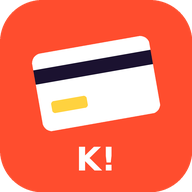
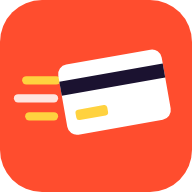
Rename the app to Sulit Swipe
- New name in the header, home-screen name, share text and page title
- New icon and share image (card with swipe lines)
- Saved wallets carry over (storage key unchanged)

Claude-Session: https://claude.ai/code/session_01GAsPrBMvnJ9dm1GLeQ6xy4

diff --git a/index.html b/index.html
@@ -1,7 +1,7 @@
 <!DOCTYPE html>
 <html lang="en"><head>
 <meta charset="utf-8"><meta name="viewport" content="width=device-width,initial-scale=1,viewport-fit=cover">
-<title>Kaskas! — Which card should you swipe?</title>
+<title>Sulit Swipe — Which card should you swipe?</title>
 <meta name="description" content="Find out which of your credit cards earns the most rewards before you pay.">
 <meta name="theme-color" content="#ff4d2e" media="(prefers-color-scheme: light)">
 <meta name="theme-color" content="#16111f" media="(prefers-color-scheme: dark)">
@@ -11,10 +11,11 @@
 <meta name="apple-mobile-web-app-capable" content="yes">
 <meta name="mobile-web-app-capable" content="yes">
 <meta name="apple-mobile-web-app-status-bar-style" content="black-translucent">
-<meta name="apple-mobile-web-app-title" content="Kaskas!">
-<meta property="og:title" content="Kaskas! — Which card should you swipe?">
+<meta name="apple-mobile-web-app-title" content="Sulit Swipe">
+<meta property="og:title" content="Sulit Swipe — Which card should you swipe?">
 <meta property="og:description" content="Find out which of your credit cards earns the most rewards before you pay.">
-<meta property="og:image" content="og.png">
+<meta property="og:image" content="https://chairell.github.io/sulitswipe/og.png">
+<meta property="og:url" content="https://chairell.github.io/sulitswipe/">
 <meta name="twitter:card" content="summary_large_image">
 <style>
 :root{--hot:#ff4d2e;--ink:#1b1230;--sun:#ffd23f;--bg:#f6f3ef;--surface:#fff;--mut:#6b6280;--line:#e9e4ee;--fill:#eeeaf2;
@@ -147,7 +148,7 @@ body.c #toast{bottom:calc(var(--tab-h) + var(--safe-b) + var(--dock-h,210px) + 1
 body:not(.c) .dock{display:none}
 </style></head><body class="c">
 
-<header class="top"><h1 id="title" class="brand">Kaskas!</h1><div class="sub" id="subtitle">Which card should you swipe?</div></header>
+<header class="top"><h1 id="title" class="brand">Sulit Swipe</h1><div class="sub" id="subtitle">Which card should you swipe?</div></header>
 
 <main id="v-compare" class="view active">
   <div id="guide"></div>
@@ -175,13 +176,13 @@ body:not(.c) .dock{display:none}
   </div>
   <div class="sect">App</div>
   <div class="group">
-    <button class="row" style="width:100%;text-align:left" onclick="showGuide(true)"><div class="lbl">Add Kaskas! to your home screen</div><span class="chev">›</span></button>
-    <button class="row" style="width:100%;text-align:left" onclick="shareApp()"><div class="lbl">Share Kaskas! with friends</div><span class="chev">›</span></button>
+    <button class="row" style="width:100%;text-align:left" onclick="showGuide(true)"><div class="lbl">Add Sulit Swipe to your home screen</div><span class="chev">›</span></button>
+    <button class="row" style="width:100%;text-align:left" onclick="shareApp()"><div class="lbl">Share Sulit Swipe with friends</div><span class="chev">›</span></button>
     <button class="row" style="width:100%;text-align:left;color:#e5484d" onclick="resetCards()"><div class="lbl">Clear my cards</div></button>
   </div>
   <div class="sect">About the rates</div>
   <div class="group"><div class="row"><div class="lbl" style="font-size:14px">Rates come from each bank's website and published terms, checked Nov 25, 2026. Promos are pulled from bank websites daily and listed separately. Rates change often, so check the bank's current terms before relying on a result. Each result links to its source.</div></div>
-    <a class="row" href="https://github.com/chairell/kaskas" target="_blank" rel="noopener" style="text-decoration:none;color:inherit"><div class="lbl">Card data on GitHub</div><span class="chev">›</span></a></div>
+    <a class="row" href="https://github.com/chairell/sulitswipe" target="_blank" rel="noopener" style="text-decoration:none;color:inherit"><div class="lbl">Card data on GitHub</div><span class="chev">›</span></a></div>
 </main>
 
 <div class="dock" id="dock"><div class="dock-in">

diff --git a/app.js b/app.js
@@ -1,4 +1,5 @@
 let S;
+// Storage key kept from the app's first name (Kaskas!) so existing wallets carry over.
 try { S = JSON.parse(localStorage.kaskas || "null"); } catch (e) { S = null; }
 S = Object.assign({ owned: [], cat: "Dining", merch: "", amts: [], guide: 0, mileVal: 0.5, prog: "", conds: {}, picks: {} }, S || {});
 S.picks = S.picks || {};
@@ -38,7 +39,7 @@ function setAmt(a) { setAmtBox(a); $("slider").value = toSlider(a); compare(true
 
 
 // ── Navigation ──
-const TITLES = { compare: ["Kaskas!", "Which card should you swipe?"], cards: ["My cards", "Turn on the cards in your wallet"], settings: ["Settings", ""] };
+const TITLES = { compare: ["Sulit Swipe", "Which card should you swipe?"], cards: ["My cards", "Add the cards in your wallet"], settings: ["Settings", ""] };
 let tab = "compare";
 function go(t) {
   if (t == tab) { window.scrollTo({ top: 0, behavior: "smooth" }); return; }
@@ -256,18 +257,18 @@ function doShare(d) {
   if (navigator.share) navigator.share(d).catch(() => {});
   else navigator.clipboard.writeText(`${d.text} ${d.url}`).then(() => toast("Link copied"));
 }
-function shareApp() { doShare({ title: "Kaskas!", text: "Find out which of your cards earns the most on every purchase:", url: baseUrl() }); }
+function shareApp() { doShare({ title: "Sulit Swipe", text: "Find out which of your cards earns the most on every purchase:", url: baseUrl() }); }
 function shareResult() {
   const { r, a } = window._last, w = r[0];
-  doShare({ title: "Kaskas!", text: `${w.c.name} got me ${pct(w.value, a)} back on ${S.cat.toLowerCase()}. Which of your cards wins?`,
+  doShare({ title: "Sulit Swipe", text: `${w.c.name} got me ${pct(w.value, a)} back on ${S.cat.toLowerCase()}. Which of your cards wins?`,
     url: `${baseUrl()}?cat=${encodeURIComponent(S.cat)}&amt=${a}` });
 }
 function showGuide(force) {
   const installed = matchMedia("(display-mode: standalone)").matches || navigator.standalone;
   if (!force && (S.guide || installed)) { $("guide").innerHTML = ""; return; }
-  if (force && installed) return toast("Kaskas! is already on your home screen 🎉");
+  if (force && installed) return toast("Sulit Swipe is already on your home screen 🎉");
   const ios = /iphone|ipad|ipod/i.test(navigator.userAgent);
-  $("guide").innerHTML = `<div class="card"><b>📲 Add Kaskas! to your home screen</b><p class="small">${ios
+  $("guide").innerHTML = `<div class="card"><b>📲 Add Sulit Swipe to your home screen</b><p class="small">${ios
     ? "In Safari, tap the Share button (the square with an arrow), then choose “Add to Home Screen”."
     : "In Chrome, tap the ⋮ menu, then “Add to Home screen” or “Install app”."}</p><button class="btn plain" onclick="dismissGuide()">Got it</button></div>`;
   if (force) go("compare");

diff --git a/sw.js b/sw.js
@@ -1,5 +1,5 @@
 // Offline support: cache the app shell so it works at the counter even with weak signal.
-const CACHE = "kaskas-v15";
+const CACHE = "sulitswipe-v1";
 const FILES = ["./", "index.html", "app.js", "cards.js", "promos.json", "manifest.json", "icon.svg", "icon-192.png", "icon-512.png"];
 self.addEventListener("install", e => e.waitUntil(caches.open(CACHE).then(c => c.addAll(FILES))));
 self.addEventListener("activate", e => e.waitUntil(

diff --git a/cards.js b/cards.js
@@ -1,4 +1,4 @@
-// Kaskas! card data — compiled from bank websites and published terms, checked 2026-11-25.
+// Sulit Swipe card data — compiled from bank websites and published terms, checked 2026-11-25.
 // Rates change often. Every card lists its source; verify before relying on a ranking.
 //
 // Card types

diff --git a/README.md b/README.md
@@ -1,8 +1,10 @@
-# Kaskas!
+# Sulit Swipe
 
 **Which card should you swipe?** A mobile web app that tells you which of *your* credit cards earns the most rewards on the purchase you're about to make.
 
-Live: https://chairell.github.io/kaskas/
+Live: https://chairell.github.io/sulitswipe/
+
+*Formerly Kaskas!*
 
 ## What it does
 - **Three tabs**: Compare, My cards and Settings, with a bottom tab bar, dark mode and native-style touch behaviour.
